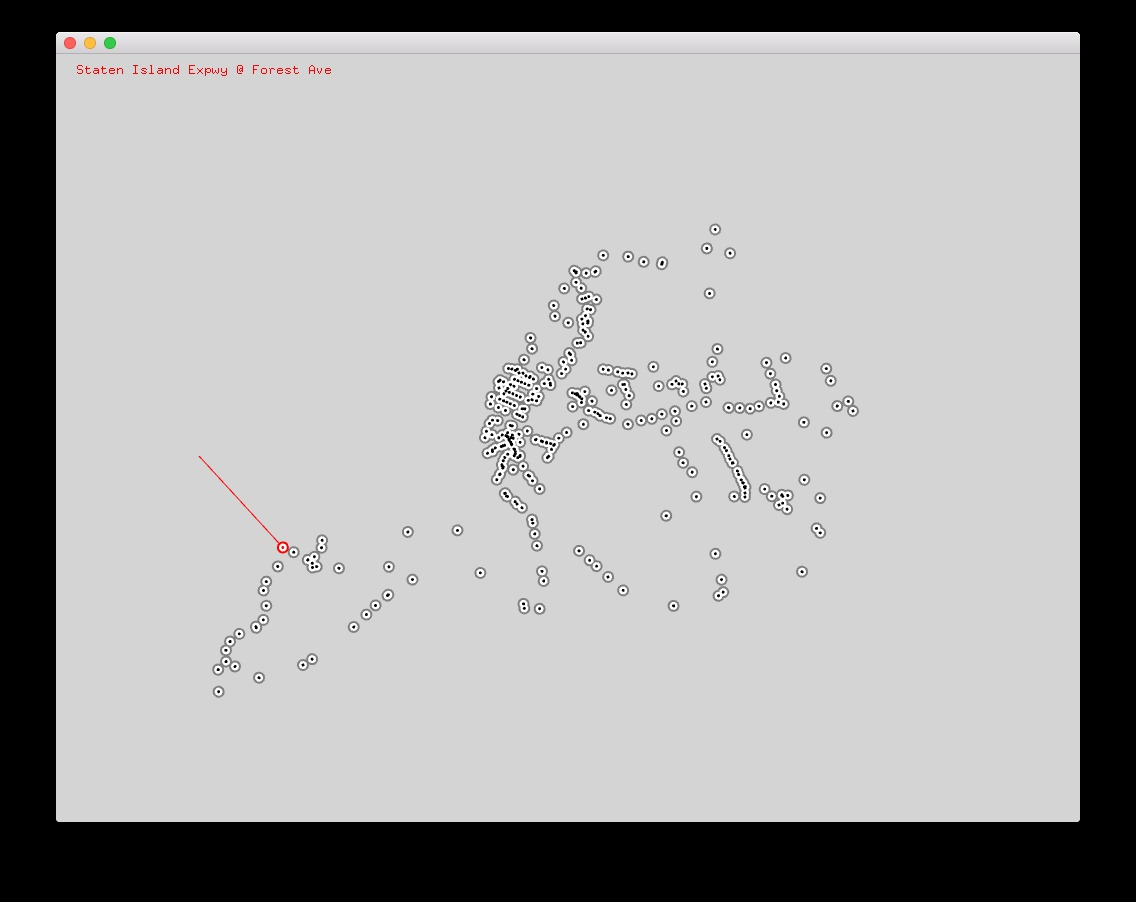
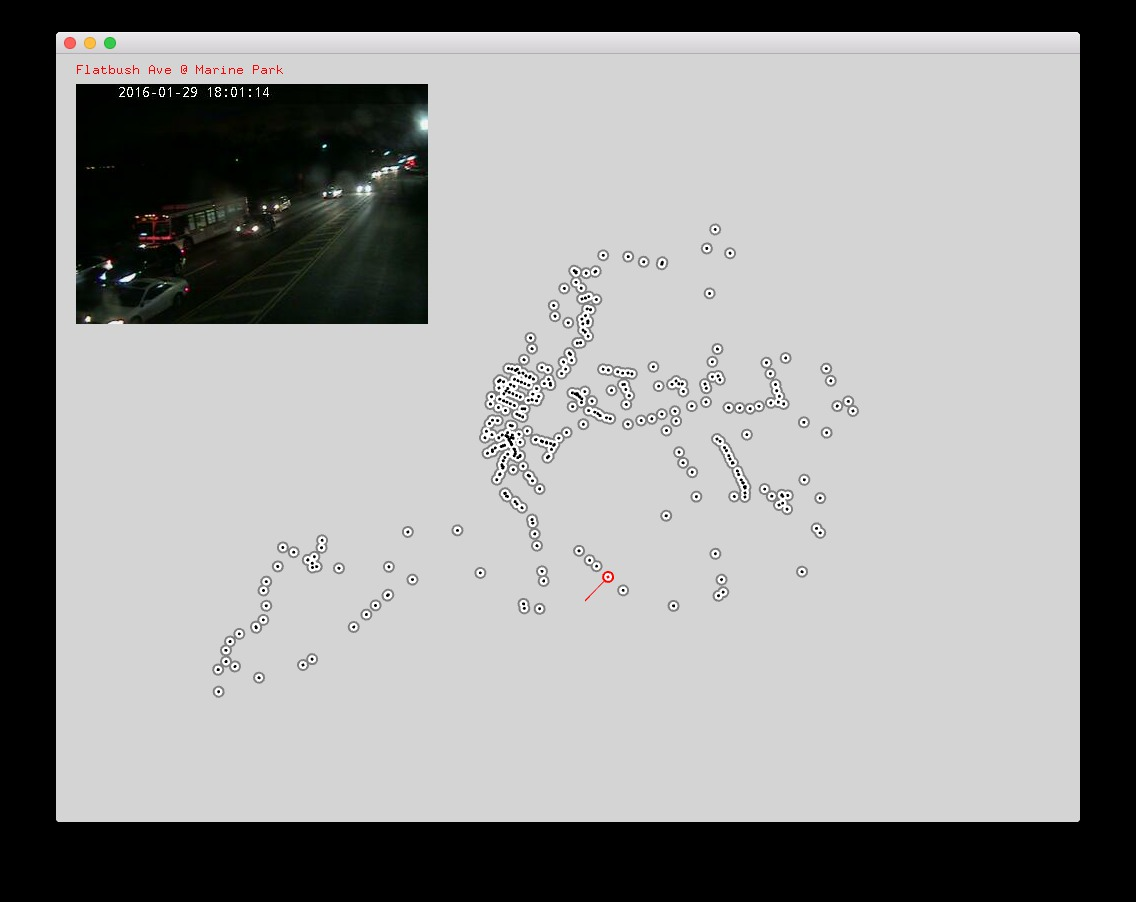
click to load traffic image

diff --git a/src/ofApp.cpp b/src/ofApp.cpp
@@ -66,6 +66,7 @@ void ofApp::setup(){
             ofLog() << lon;
             cameraLocs.push_back(ofPoint(lat, lon));
             locationNames.push_back(result[i]["name"].asString());
+            urls.push_back(result[i]["camera"].asString());
         }
         
         avgX /= result.size();
@@ -92,6 +93,7 @@ void ofApp::setup(){
     
     selectedCamera = -1;
     
+    
 
 
 
@@ -105,15 +107,20 @@ void ofApp::update(){
 //--------------------------------------------------------------
 void ofApp::draw(){
     ofBackground(212);
+
+
+    
     ofSetColor(0);
     
     if(selectedCamera>-1){
-    ofNoFill();
-    ofSetColor(255,0,0);
-    ofDrawLine(mouseX,mouseY,pts[selectedCamera].x,pts[selectedCamera].y);
-        
+        ofSetColor(255);
+        if(cameraImg.isAllocated()) cameraImg.draw(20,30);
+        ofNoFill();
+        ofSetColor(255,0,0);
+        ofDrawLine(mouseX,mouseY,pts[selectedCamera].x,pts[selectedCamera].y);
         ofDrawBitmapString(locationNames[selectedCamera],20,20);
         
+        //ofDrawBitmapString(urls[selectedCamera],20,40);
     }
     
     ofFill();
@@ -171,7 +178,7 @@ void ofApp::mouseDragged(int x, int y, int button){
 
 //--------------------------------------------------------------
 void ofApp::mousePressed(int x, int y, int button){
-
+    if(selectedCamera > -1) loader.loadFromURL(cameraImg, urls[selectedCamera]);
 }
 
 //--------------------------------------------------------------

diff --git a/src/ofApp.h b/src/ofApp.h
@@ -2,6 +2,7 @@
 
 #include "ofMain.h"
 #include "ofxJSON.h"
+#include "ofxThreadedImageLoader.h"
 
 class ofApp : public ofBaseApp{
 
@@ -37,5 +38,9 @@ class ofApp : public ofBaseApp{
     
     string message;
     vector<string> locationNames;
+    vector<string> urls;
+    
+    ofImage cameraImg;
+    		ofxThreadedImageLoader loader;
 		
 };
